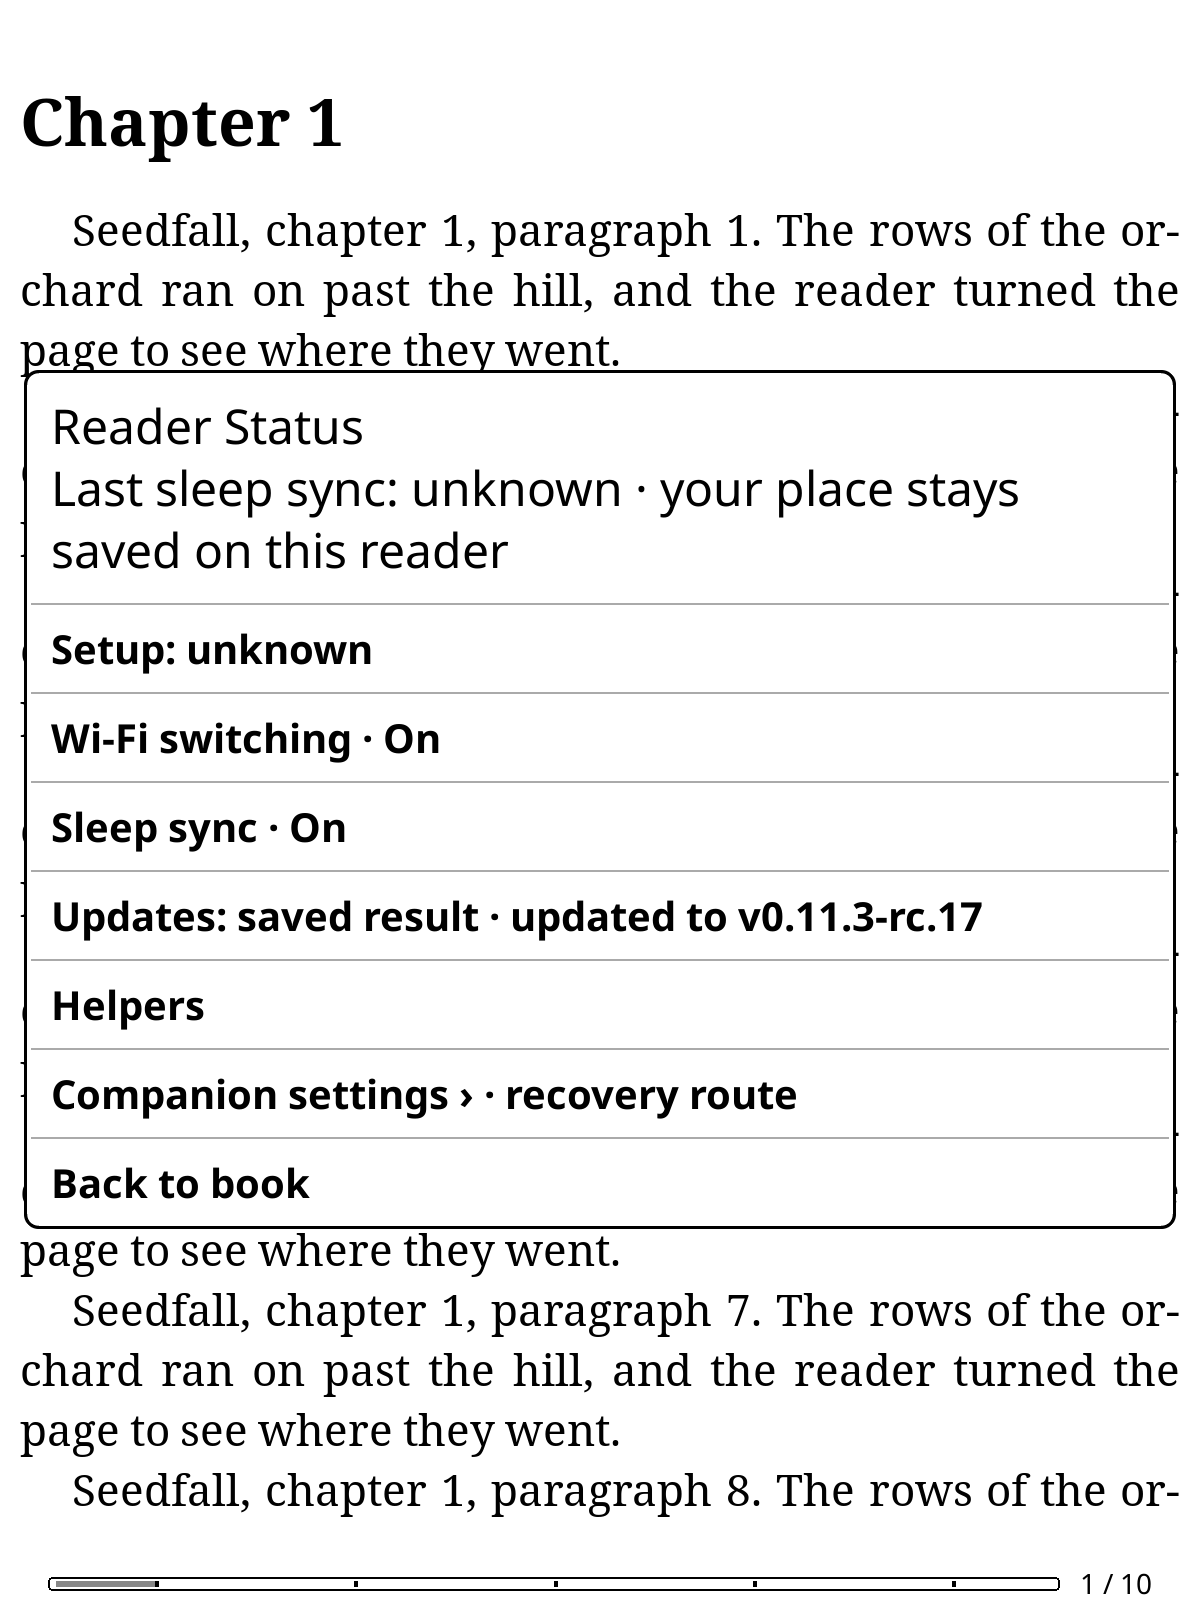
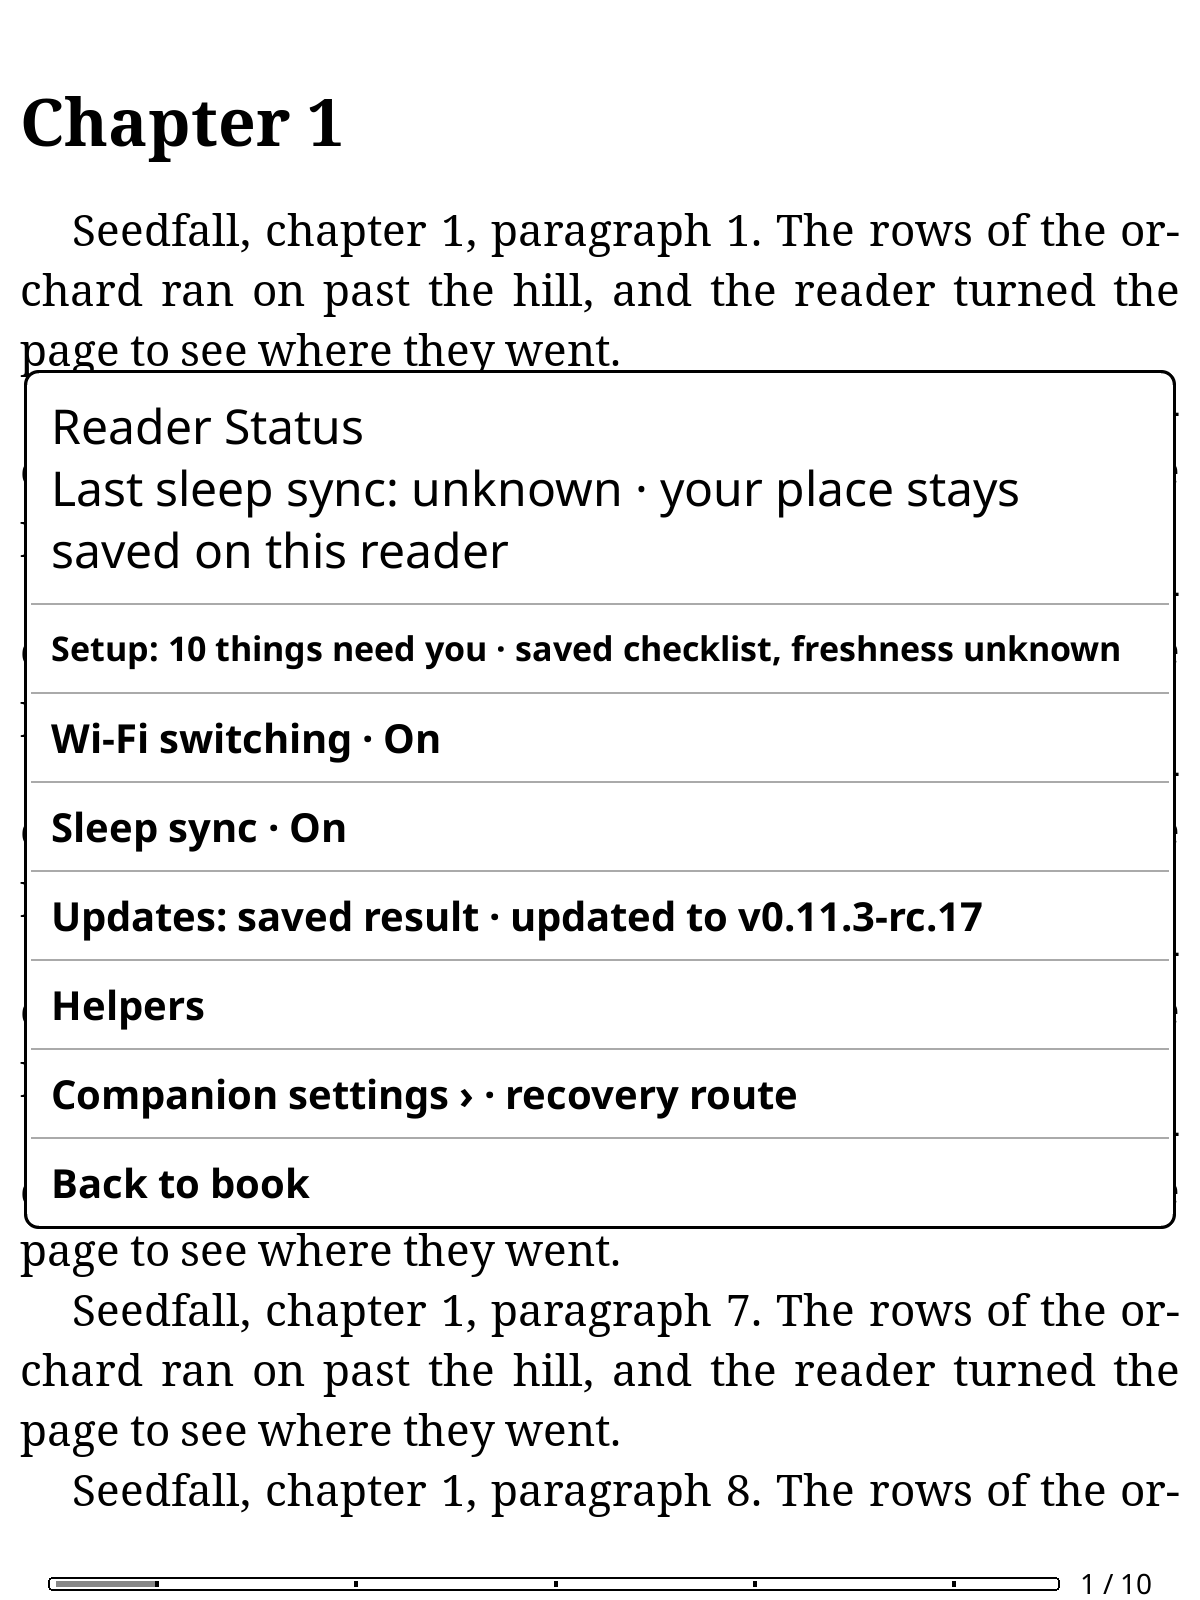
Preserve the Sleep sync dependency of screen-off helpers
Keep the saved screen-off choice inactive and read-only when Sleep sync is off; recheck the dependency in the command owner. Refresh native evidence and integration test counts.

Claude-Session: https://claude.ai/code/session_01BLYjLJzEkmBRpMx6vsJ4xw

Changed region(s): [[0.4317, 0.375, 0.925, 0.4375], [0.0617, 0.375, 0.4008, 0.4375]]

diff --git a/android/companion/app/src/main/java/net/fledgewing/orbitcompanion/ReaderCompanion.kt b/android/companion/app/src/main/java/net/fledgewing/orbitcompanion/ReaderCompanion.kt
@@ -28,12 +28,13 @@ object ReaderCompanion {
             mapOf("id" to "sleep", "label" to "Sleep sync", "on" to (!addon || p.helperSleepSync),
                 "mutable" to addon, "detail" to "Save and send before sleep"),
             mapOf("id" to "screen", "label" to "Screen off after sync", "on" to (!addon || p.helperScreenOff),
-                "mutable" to addon, "permission" to admin,
-                "detail" to if (admin) "Permission available" else "Android permission needed to turn the screen off"),
+                "mutable" to (addon && p.helperSleepSync), "permission" to admin,
+                "detail" to if (addon && !p.helperSleepSync) "Sleep sync is off; ${if (admin) "permission available" else "permission needed"}"
+                    else if (admin) "Permission available" else "Android permission needed to turn the screen off"),
         )
         val result = mapOf("mode" to if (addon) "add-on" else "full", "protected" to Pin.locked(ctx),
             "helpers" to helpers, "sync" to LuaValue.str(if (p.lastSleepSyncAt == 0L) "Last sleep sync: unknown · your place stays saved on this reader" else "Last sleep sync: ${if (p.lastSleepSyncOk) "sent" else "delivery pending"} · ${freshness(p.lastSleepSyncAt)} at ${Ui.clock(ctx,p.lastSleepSyncAt)}"),
-            "setup" to LuaValue.str(if (p.setupPromptKey.isEmpty()) "Setup: unknown" else "Setup: ${p.setupNeeded} things need you · saved checklist, freshness unknown"),
+            "setup" to LuaValue.str(if (p.setupPromptKey.isEmpty()) "Setup: unknown" else "Setup: ${p.setupNeeded} ${if (p.setupNeeded == 1) "thing needs" else "things need"} you · saved checklist, freshness unknown"),
             "updates" to LuaValue.boundedText(if (p.updateStatusAt > 0L) "Updates: ${freshness(p.updateStatusAt)} · ${p.updateStatus.ifBlank { "unknown" }}"
                 else "Updates: unknown",256),
             "observed" to observed)
@@ -54,8 +55,9 @@ object ReaderCompanion {
                         if (Pin.locked(ctx)) { done(null, "protected"); return@post }
                         if (!Mode.isAddon(ctx)) { done(null, "mode"); return@post }
                         require(on != null)
-                        if (helper == "screen" && on && !Net.adminActive(ctx)) { done(null, "permission"); return@post }
                         val p = Prefs(ctx)
+                        if (helper == "screen" && on && !p.helperSleepSync) { done(null, "dependency"); return@post }
+                        if (helper == "screen" && on && !Net.adminActive(ctx)) { done(null, "permission"); return@post }
                         when (helper) {
                             "wifi" -> p.helperWifi = on
                             "sleep" -> p.helperSleepSync = on

diff --git a/android/companion/app/src/test/java/net/fledgewing/orbitcompanion/ReaderCompanionTest.kt b/android/companion/app/src/test/java/net/fledgewing/orbitcompanion/ReaderCompanionTest.kt
@@ -30,7 +30,9 @@ class ReaderCompanionTest {
     }
     @Test fun addonStartsOffAndSnapshotStaysBoundedWithoutChecklistOrCatalog() {
         Prefs(ctx).mode=OrbitMode.ADDON
-        assertTrue(helpers().all { it["on"]==false && it["mutable"]==true })
+        assertTrue(helpers().all { it["on"]==false })
+        assertTrue(helpers().take(2).all { it["mutable"]==true })
+        assertEquals(false,helpers()[2]["mutable"])
         assertTrue(LuaValue.encode(ReaderCompanion.snapshot(ctx)).size<=16384)
         assertEquals(3,helpers().size)
         assertTrue((ReaderCompanion.snapshot(ctx)["sync"] as String).contains("unknown"))
@@ -43,6 +45,7 @@ class ReaderCompanionTest {
     }
     @Test fun missingScreenOffPermissionNeverEnablesHelper() {
         Prefs(ctx).mode=OrbitMode.ADDON
+        Prefs(ctx).helperSleepSync=true
         assertEquals(false,helpers()[2]["permission"])
         assertEquals("permission",command("action" to "set","helper" to "screen","on" to true))
         assertFalse(Prefs(ctx).helperScreenOff)
@@ -103,6 +106,17 @@ class ReaderCompanionTest {
         assertTrue((snapshot["updates"] as String).length<=256)
         assertTrue(LuaValue.transportText(snapshot).contains("Résumé"))
         assertFalse(LuaValue.transportText(snapshot).contains("�"))
+    }
+
+    @Test fun screenOffKeepsItsSavedChoiceButRequiresSleepSyncToChangeOn() {
+        val p=Prefs(ctx);p.mode=OrbitMode.ADDON;p.helperScreenOff=true
+        assertEquals(false,helpers()[2]["mutable"])
+        assertEquals(true,helpers()[2]["on"])
+        assertEquals("dependency",command("action" to "set","helper" to "screen","on" to true))
+        assertTrue(p.helperScreenOff)
+        assertFalse(p.helperSleepSync)
+        p.helperSleepSync=true
+        assertEquals(true,helpers()[2]["mutable"])
     }
 
 }

diff --git a/tools/e2e/android/reader_companion.py b/tools/e2e/android/reader_companion.py
@@ -65,7 +65,7 @@ def review(device, out):
         check("full-reader-helpers",callback("helpers")+'\n')
         device.command('local v=ReaderCompanionView.active;assert(v.snapshot.mode=="full");assert(v.snapshot.helpers[1].on and not v.snapshot.helpers[1].mutable);v:close();return true')
         configure("addon")
-        check("addon-reader-helpers",'ReaderCompanionView.open("helpers");local v=ReaderCompanionView.active;assert(v.snapshot.mode=="add-on");assert(not v.snapshot.helpers[1].on and not v.snapshot.helpers[2].on);return true')
+        check("addon-reader-helpers",'ReaderCompanionView.open("helpers");local v=ReaderCompanionView.active;assert(v.snapshot.mode=="add-on");assert(not v.snapshot.helpers[1].on and not v.snapshot.helpers[2].on);assert(not v.snapshot.helpers[3].mutable);return true')
         for helper,index in (("wifi",1),("sleep",2)):
             device.command(callback(helper));helpers_ready()
             check(helper+"-explicit-on",'assert(ReaderCompanionView.active.snapshot.helpers['+str(index)+'].on);return true')

diff --git a/docs/design/booksync-home/READER-COMPANION-SURFACES.md b/docs/design/booksync-home/READER-COMPANION-SURFACES.md
@@ -79,7 +79,9 @@ The existing policy matters here: Full mode includes the helpers; Add-on's exist
 Wi-Fi and Sleep sync opt-ins remain off by default. Sleep sync itself does not need
 the lock-screen permission. The permission explanation therefore names **Screen
 off after sync**, the operation that actually requires it. Granting it neither
-sets the screen-off helper nor enables Sleep sync. The normal worker owns helper
+sets the screen-off helper nor enables Sleep sync. Screen off remains dependent
+on Sleep sync; its saved choice is kept and its control is read-only while Sleep
+sync is off. The normal worker owns helper
 writes and rechecks protection, mode and permission at execution time. A successful
 write follows the existing service/status lifecycle and refreshes capabilities.
 
@@ -123,12 +125,12 @@ Native Android 14 review captures (1200×1600, synthetic books/accounts):
 [existing protected settings](evidence/reader-companion/protected.png).
 
 
-Validation on 2026-11-27: 261 Lua logic tests and 308 flow tests passed; Companion
-ran 919 JVM tests with zero failures/errors and four existing skips (915 passed),
+Validation on 2026-11-27: 265 Lua logic tests and 312 flow tests passed; Companion
+ran 951 JVM tests with zero failures/errors and four existing skips (947 passed),
 plus shared-version verification, debug assembly and lint. UI/server boundary
 guards passed all 18 tests, feature generation all four checks, and emulator host
 safety all ten checks. Native Android 14 passed 15 reader-companion checks, the
-existing 68-screen reading review, three Add-on recovery checks, and the four
+existing 69-screen reading review, three Add-on recovery checks, and the four
 upgrade/fresh-profile captures. Upgrade retained the seven-minute idle setting and
 synthetic sentinel and verified the once-only news acknowledgment. All device
 commands targeted the disposable emulator; no physical reader was used.
